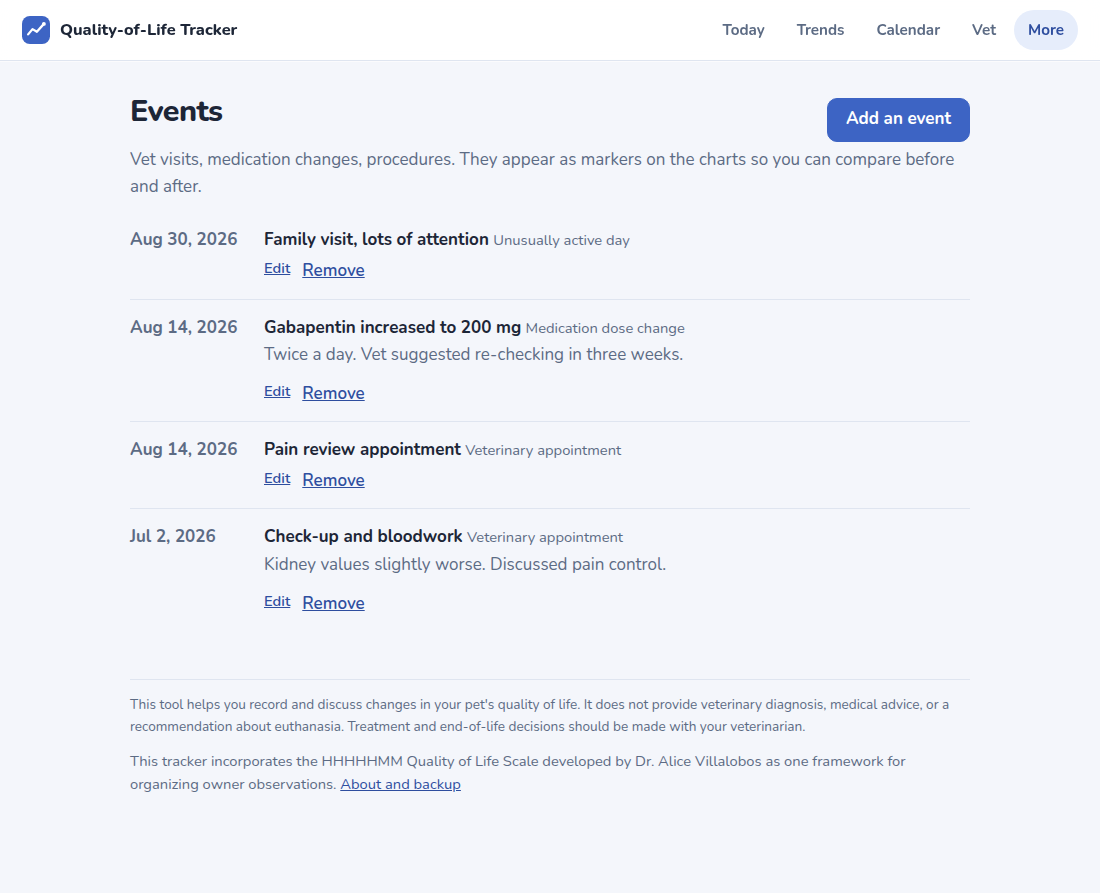
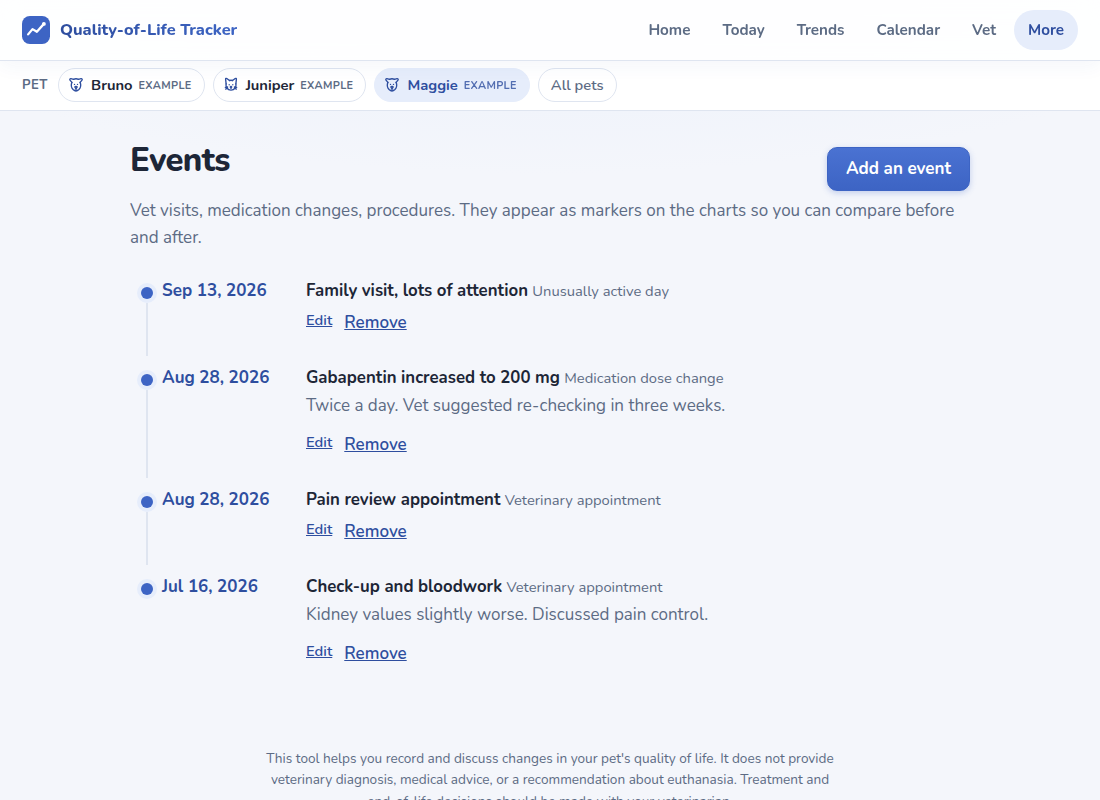
Polish every page
The pet header on Today is a soft gradient card with a ringed portrait;
section headings carry a small icon tile; count tiles have icon
circles; behaviour bars a gradient; observations an i / ! / check mark;
the calendar has rounded cells with gaps; the vet table zebra rows and
red or green verdicts; the events page a dotted timeline; the More page
tappable rows; pet cards lift on hover; the home page step cards are
tinted to match their icons; the footer is centred. The question tile
class is renamed q-tile so the no-gamification-words test stays green.
README screenshots refreshed.

Claude-Session: https://claude.ai/code/session_01WD81nzJdcR2tiUwVwuFBaZ

diff --git a/app/static/style.css b/app/static/style.css
@@ -419,21 +419,21 @@ body { background: radial-gradient(1200px 420px at 50% -120px, #e6edfb 0%, var(-
 .q-head .question, .q-head label.question { margin: 0; }
 .q-head > div { min-width: 0; }
 .q-head .tag { margin-bottom: 4px; }
-.q-badge { flex: none; display: inline-flex; align-items: center; justify-content: center; width: 52px; height: 52px; border-radius: 16px; background: var(--accent-soft); color: var(--accent-dark); box-shadow: inset 0 0 0 1px rgba(255,255,255,.6); }
-.q-badge .icon { width: 28px; height: 28px; stroke-width: 1.7; }
-.q-badge.small { width: 30px; height: 30px; border-radius: 9px; margin-right: 8px; vertical-align: middle; }
-.q-badge.small .icon { width: 17px; height: 17px; stroke-width: 1.9; }
+.q-tile { flex: none; display: inline-flex; align-items: center; justify-content: center; width: 52px; height: 52px; border-radius: 16px; background: var(--accent-soft); color: var(--accent-dark); box-shadow: inset 0 0 0 1px rgba(255,255,255,.6); }
+.q-tile .icon { width: 28px; height: 28px; stroke-width: 1.7; }
+.q-tile.small { width: 30px; height: 30px; border-radius: 9px; margin-right: 8px; vertical-align: middle; }
+.q-tile.small .icon { width: 17px; height: 17px; stroke-width: 1.9; }
 h1.with-badge { display: flex; align-items: center; gap: 12px; }
-.q-badge.cat-hurt { background: var(--cat-hurt-soft); color: var(--cat-hurt); }
-.q-badge.cat-hunger { background: var(--cat-hunger-soft); color: var(--cat-hunger); }
-.q-badge.cat-hydration { background: var(--cat-hydration-soft); color: var(--cat-hydration); }
-.q-badge.cat-hygiene { background: var(--cat-hygiene-soft); color: var(--cat-hygiene); }
-.q-badge.cat-happiness { background: var(--cat-happiness-soft); color: var(--cat-happiness); }
-.q-badge.cat-mobility { background: var(--cat-mobility-soft); color: var(--cat-mobility); }
-.q-badge.cat-good_days { background: var(--cat-good_days-soft); color: var(--cat-good_days); }
-.q-badge.cat-day { background: var(--cat-day-soft); color: var(--cat-day); }
-.q-badge.cat-markers { background: var(--cat-markers-soft); color: var(--cat-markers); }
-.q-badge.cat-note { background: var(--cat-note-soft); color: var(--cat-note); }
+.q-tile.cat-hurt { background: var(--cat-hurt-soft); color: var(--cat-hurt); }
+.q-tile.cat-hunger { background: var(--cat-hunger-soft); color: var(--cat-hunger); }
+.q-tile.cat-hydration { background: var(--cat-hydration-soft); color: var(--cat-hydration); }
+.q-tile.cat-hygiene { background: var(--cat-hygiene-soft); color: var(--cat-hygiene); }
+.q-tile.cat-happiness { background: var(--cat-happiness-soft); color: var(--cat-happiness); }
+.q-tile.cat-mobility { background: var(--cat-mobility-soft); color: var(--cat-mobility); }
+.q-tile.cat-good_days { background: var(--cat-good_days-soft); color: var(--cat-good_days); }
+.q-tile.cat-day { background: var(--cat-day-soft); color: var(--cat-day); }
+.q-tile.cat-markers { background: var(--cat-markers-soft); color: var(--cat-markers); }
+.q-tile.cat-note { background: var(--cat-note-soft); color: var(--cat-note); }
 .tag.cat-hurt { background: var(--cat-hurt-soft); color: var(--cat-hurt); }
 .tag.cat-hunger { background: var(--cat-hunger-soft); color: var(--cat-hunger); }
 .tag.cat-hydration { background: var(--cat-hydration-soft); color: var(--cat-hydration); }
@@ -461,7 +461,106 @@ input[type="range"]::-moz-range-thumb { width: 30px; height: 30px; border-width:
 .slider output { font-size: 1.45rem; min-width: 2.8em; padding: 8px 10px; border-radius: 12px; }
 
 @media (max-width: 700px) {
-  .q-badge { width: 44px; height: 44px; border-radius: 13px; }
-  .q-badge .icon { width: 24px; height: 24px; }
+  .q-tile { width: 44px; height: 44px; border-radius: 13px; }
+  .q-tile .icon { width: 24px; height: 24px; }
   .day-icon { width: 40px; height: 40px; padding: 8px; }
+}
+
+/* ---- Pretty pass: hero card, section icons, calendar, tables, timeline ---- */
+.topbar { box-shadow: 0 1px 0 var(--border), 0 6px 18px rgba(46, 78, 159, .05); border-bottom: none; }
+.brand span { background: linear-gradient(90deg, var(--accent-dark), var(--accent)); -webkit-background-clip: text; background-clip: text; color: transparent; }
+h1 { font-size: 2.05rem; }
+.content { padding-top: 30px; }
+
+/* Section headings with a small icon tile */
+.h-icon { width: 30px; height: 30px; padding: 6px; border-radius: 9px; background: var(--accent-soft); color: var(--accent-dark); margin-right: 10px; vertical-align: -9px; stroke-width: 1.9; }
+.card.block h2 { display: flex; align-items: center; }
+.section-head .actions { margin: 0; }
+
+/* Pet hero on Today */
+.hero-card { position: relative; overflow: hidden; padding: 22px 26px; border-radius: 20px; background: linear-gradient(135deg, #e9effc 0%, #f7f9fe 55%, #ffffff 100%); border: 1px solid #e1e8f6; box-shadow: var(--shadow); margin-bottom: 20px; }
+.hero-card::before, .hero-card::after { content: ""; position: absolute; border-radius: 50%; pointer-events: none; }
+.hero-card::before { width: 260px; height: 260px; right: -70px; top: -120px; background: radial-gradient(circle, rgba(61,100,196,.14), transparent 70%); }
+.hero-card::after { width: 160px; height: 160px; right: 140px; bottom: -110px; background: radial-gradient(circle, rgba(201, 138, 14, .12), transparent 70%); }
+.hero-card .hero-photo img, .hero-card .hero-photo .placeholder { box-shadow: 0 0 0 4px #fff, 0 8px 22px rgba(46, 78, 159, .18); }
+.hero-card .chip.quiet { background: rgba(255,255,255,.75); border: 1px solid #e1e8f6; color: var(--muted); }
+.today-card { border-left: 5px solid var(--accent); }
+
+/* Count tiles */
+.count { border-radius: 14px; border-left-width: 5px; padding: 16px 16px 14px; box-shadow: inset 0 0 0 1px rgba(255,255,255,.7); }
+.count .icon { width: 30px; height: 30px; padding: 6px; border-radius: 50%; background: rgba(255,255,255,.75); margin-bottom: 6px; opacity: 1; }
+.count.none { background: linear-gradient(180deg, #f0f3fa, #e9eef7); border-color: #c5cfe3; }
+
+/* Behaviour bars and insights */
+.bar { height: 12px; background: #e9eef7; }
+.bar span { background: linear-gradient(90deg, var(--accent-dark), #6f90de); }
+.marker-head .small { font-weight: 700; color: var(--accent-dark); }
+.insight { align-items: flex-start; border-left-width: 4px; padding: 12px 14px 12px 12px; border-radius: 12px; }
+.insight-mark { display: inline-flex; align-items: center; justify-content: center; flex: none; width: 22px; height: 22px; border-radius: 50%; margin-top: 2px; font-size: 0.75rem; font-weight: 900; background: #fff; color: var(--faint); box-shadow: inset 0 0 0 2px var(--faint); }
+.insight.attention .insight-mark { color: var(--warn); box-shadow: inset 0 0 0 2px var(--warn); }
+.insight.note .insight-mark { color: #fff; background: var(--accent); box-shadow: none; }
+
+/* Recent entries and events as rows */
+.entry-list li, .event-list li { padding: 10px 6px; border-radius: 10px; }
+.entry-list li:hover, .event-list li:hover { background: var(--surface-2); }
+.event-list .date { color: var(--accent-dark); background: var(--accent-soft); border-radius: 8px; padding: 2px 8px; min-width: 0; font-size: 0.85rem; }
+
+/* Calendar: rounded cells with breathing room */
+.calendar { border-collapse: separate; border-spacing: 5px; }
+.cal-cell { border-radius: 12px; border: 1px solid #e7ecf5; height: 60px; background: #fbfcfe; transition: transform .12s, box-shadow .12s; }
+.cal-cell.out { background: transparent; border-color: transparent; }
+.cal-cell.good { background: var(--good-soft); border-color: #cfe7da; } .cal-cell.mixed { background: var(--mixed-soft); border-color: #ecdfae; } .cal-cell.bad { background: var(--bad-soft); border-color: #efcbd4; }
+.cal-cell.logged { background: var(--surface-2); }
+.cal-cell:has(a):hover { transform: translateY(-1px); box-shadow: 0 6px 14px rgba(46, 78, 159, .12); }
+.cal-cell .glyph { width: 16px; height: 16px; }
+.calendar th { padding: 6px 0 2px; }
+
+/* Tables */
+.table tbody tr:nth-child(even) td { background: #f9fbfe; }
+.table tbody tr:hover td { background: var(--accent-soft); }
+.table td:first-child { font-weight: 700; }
+.verdict { font-weight: 700; white-space: nowrap; }
+.verdict.down { color: var(--bad); } .verdict.up { color: var(--good); } .verdict.muted { font-weight: 500; }
+
+/* Events timeline */
+.timeline { position: relative; padding-left: 4px; }
+.timeline li { border-top: none; position: relative; padding: 14px 0 14px 28px; grid-template-columns: 130px 1fr; }
+.timeline li::before { content: ""; position: absolute; left: 7px; top: 24px; width: 12px; height: 12px; border-radius: 50%; background: var(--accent); box-shadow: 0 0 0 4px var(--accent-soft); }
+.timeline li::after { content: ""; position: absolute; left: 12px; top: 40px; bottom: -6px; width: 2px; background: var(--border); }
+.timeline li:last-child::after { display: none; }
+.timeline .date { color: var(--accent-dark); }
+.timeline li strong { font-size: 1.05rem; }
+
+/* Link lists (More, settings) as tappable rows */
+.link-list li { padding: 11px 8px; border-radius: 10px; border-top: none; margin-top: 2px; }
+.link-list li:hover { background: var(--surface-2); }
+.link-list .icon { width: 30px; height: 30px; padding: 6px; border-radius: 9px; background: var(--accent-soft); color: var(--accent-dark); margin-right: 6px; vertical-align: middle; }
+.link-list a { font-weight: 700; text-decoration: none; }
+.link-list a:hover { text-decoration: underline; }
+
+/* Pet cards */
+.animal-card { transition: transform .12s, box-shadow .15s; }
+.animal-card:hover { transform: translateY(-2px); box-shadow: 0 12px 30px rgba(46, 78, 159, .12); }
+.animal-card .thumb, .animal-card .placeholder { box-shadow: 0 0 0 3px #fff, 0 0 0 4px #dbe4f6; }
+
+/* Home page step cards */
+.step-card .q-tile { margin-bottom: 12px; }
+.step-card:nth-child(1) { background: linear-gradient(180deg, #fff, #f5fbf8); }
+.step-card:nth-child(2) { background: linear-gradient(180deg, #fff, #f3f6fd); }
+.step-card:nth-child(3) { background: linear-gradient(180deg, #fff, #f6f3fd); }
+.hero-landing { padding-top: 36px; }
+
+/* Chips */
+.chip.active { background: linear-gradient(180deg, #4a72d2, var(--accent)); box-shadow: 0 2px 6px rgba(61, 100, 196, .25); }
+
+/* Footer */
+.footer { text-align: center; }
+.disclaimer { border-top: none; padding-top: 18px; max-width: 70ch; margin: 0 auto 10px; }
+
+@media (max-width: 700px) {
+  h1 { font-size: 1.6rem; }
+  .hero-card { padding: 18px; border-radius: 16px; }
+  .timeline li { grid-template-columns: 1fr; padding-left: 26px; }
+  .calendar { border-spacing: 3px; }
+  .cal-cell { height: 52px; border-radius: 9px; }
 }

diff --git a/app/templates/dashboard.html b/app/templates/dashboard.html
@@ -2,7 +2,7 @@
 {% from "_icons.html" import icon %}
 {% block title %}{{ animal.name }} · Today{% endblock %}
 {% block content %}
-<section class="hero">
+<section class="hero hero-card">
   <div class="hero-photo">
     {% if animal.photo_path %}
       <img src="{{ url_for('animals.serve_photo', filename=animal.photo_path) }}" alt="">
@@ -66,7 +66,7 @@
 
 <section class="card block" aria-label="Last 30 days">
   <div class="section-head tight">
-    <h2>Last 30 days</h2>
+    <h2>{{ icon('calendar', 'icon h-icon') }}Last 30 days</h2>
     <a class="link small" href="{{ url_for('trends.calendar', animal_id=animal.id) }}">Calendar</a>
   </div>
   <div class="day-counts">
@@ -82,7 +82,7 @@
 
 <section class="card block" aria-label="Trend">
   <div class="section-head tight">
-    <h2>Quality-of-life trend</h2>
+    <h2>{{ icon('trend', 'icon h-icon') }}Quality-of-life trend</h2>
     <div class="presets small">
       {% for key, label in [('30', '30 days'), ('90', '90 days'), ('all', 'All')] %}
         <a class="chip {{ 'active' if preset == key }}" href="{{ url_for('dashboard.today', animal_id=animal.id, range=key) }}">{{ label }}</a>
@@ -102,7 +102,7 @@
 {% if rates %}
 <section class="card block" aria-label="Good-day behaviors">
   <div class="section-head tight">
-    <h2>{{ animal.name }}'s good-day behaviors</h2>
+    <h2>{{ icon('check-circle', 'icon h-icon') }}{{ animal.name }}'s good-day behaviors</h2>
     <a class="link small" href="{{ url_for('markers.behaviors', animal_id=animal.id) }}">Over time</a>
   </div>
   <ul class="marker-list">
@@ -118,13 +118,13 @@
 {% endif %}
 
 <section class="card block" aria-label="Observations">
-  <h2>Observations</h2>
+  <h2>{{ icon('sparkles', 'icon h-icon') }}Observations</h2>
   {% include "_insights.html" %}
 </section>
 
 {% if caregiver_due %}
 <section class="card block caregiver-card" aria-label="Caregiver check-in">
-  <h2>How are you doing?</h2>
+  <h2>{{ icon('heart', 'icon h-icon') }}How are you doing?</h2>
   <p class="muted">This one is for you, and it's kept separate from {{ animal.name }}'s scores. Once a week, if you'd like.</p>
   <a class="button secondary" href="{{ url_for('caregiver.checkin', animal_id=animal.id) }}">Answer</a>
 </section>
@@ -132,7 +132,7 @@
 
 <section class="card block" aria-label="Recent">
   <div class="section-head tight">
-    <h2>Recent</h2>
+    <h2>{{ icon('flag', 'icon h-icon') }}Recent</h2>
     <div class="actions compact">
       <a class="link small" href="{{ url_for('events.new', animal_id=animal.id) }}">Add an event</a>
       <a class="link small" href="{{ url_for('trends.trends', animal_id=animal.id) }}#entries">All entries</a>

diff --git a/app/templates/checkin.html b/app/templates/checkin.html
@@ -23,7 +23,7 @@
   {# Step 1: good / bad / mixed #}
   <div class="card panel step" data-step="status" data-title="Today">
     <fieldset>
-      <legend class="q-head"><span class="q-badge cat-day">{{ icon('calendar', 'icon') }}</span><span class="question">Was today a good day or a bad day for {{ animal.name }}?</span></legend>
+      <legend class="q-head"><span class="q-tile cat-day">{{ icon('calendar', 'icon') }}</span><span class="question">Was today a good day or a bad day for {{ animal.name }}?</span></legend>
       <div class="day-choice">
         {% for value, label in day_statuses %}
           <label class="day-option {{ value }}">
@@ -41,7 +41,7 @@
   <div class="card panel step" data-step="markers" data-title="Behaviors">
     <input type="hidden" name="markers_included" value="1">
     <fieldset>
-      <legend class="q-head"><span class="q-badge cat-markers">{{ icon('checklist', 'icon') }}</span><span class="question">What did {{ animal.name }} do today?</span></legend>
+      <legend class="q-head"><span class="q-tile cat-markers">{{ icon('checklist', 'icon') }}</span><span class="question">What did {{ animal.name }} do today?</span></legend>
       {% if markers %}
         <div class="choice-grid">
           {% for m in markers %}
@@ -67,7 +67,7 @@
       <div class="card panel step score-step" data-step="{{ key }}" data-title="{{ label }}">
         <div class="score-row">
           <div class="q-head">
-            <span class="q-badge cat-{{ key }}">{{ icon(category_icons[key], 'icon') }}</span>
+            <span class="q-tile cat-{{ key }}">{{ icon(category_icons[key], 'icon') }}</span>
             <div><span class="tag cat-{{ key }}">{{ label }}</span>
             <label class="question" for="score-{{ key }}">{{ questions[key].replace('{name}', animal.name) }}</label></div>
           </div>
@@ -87,7 +87,7 @@
 
   {# Step 10: anything different? #}
   <div class="card panel step" data-step="note" data-title="Anything different?">
-    <div class="q-head"><span class="q-badge cat-note">{{ icon('pencil', 'icon') }}</span><label for="notes" class="question">Anything different today?</label></div>
+    <div class="q-head"><span class="q-tile cat-note">{{ icon('pencil', 'icon') }}</span><label for="notes" class="question">Anything different today?</label></div>
     <textarea id="notes" name="notes" rows="3" maxlength="5000" placeholder="Medication change, vet visit, didn't finish breakfast, slept more than usual…">{{ values.get('notes', '') }}</textarea>
     <p class="hint">Optional.</p>
     <details class="extras">

diff --git a/app/templates/checkin_quick.html b/app/templates/checkin_quick.html
@@ -9,7 +9,7 @@
   <input type="hidden" name="markers_included" value="1">
   <div class="card panel">
     <fieldset>
-      <legend class="q-head"><span class="q-badge cat-day">{{ icon('calendar', 'icon') }}</span><span class="question">Was today a good day or a bad day for {{ animal.name }}?</span></legend>
+      <legend class="q-head"><span class="q-tile cat-day">{{ icon('calendar', 'icon') }}</span><span class="question">Was today a good day or a bad day for {{ animal.name }}?</span></legend>
       <div class="day-choice">
         {% for value, label in day_statuses %}
           <label class="day-option {{ value }}">
@@ -24,7 +24,7 @@
   {% if markers %}
   <div class="card panel">
     <fieldset>
-      <legend class="q-head"><span class="q-badge cat-markers">{{ icon('checklist', 'icon') }}</span><span class="question">What did {{ animal.name }} do today?</span></legend>
+      <legend class="q-head"><span class="q-tile cat-markers">{{ icon('checklist', 'icon') }}</span><span class="question">What did {{ animal.name }} do today?</span></legend>
       <div class="choice-grid">
         {% for m in markers %}
           <label class="choice big">

diff --git a/app/templates/landing.html b/app/templates/landing.html
@@ -43,17 +43,17 @@
 
 <section class="steps-landing" id="how" aria-label="How it works">
   <div class="card block step-card">
-    {{ icon('check-circle', 'icon step-icon') }}
+    <span class="q-tile cat-markers">{{ icon('check-circle', 'icon') }}</span>
     <h2>Check in</h2>
     <p>Record a good or bad day, the behaviors that matter for your pet, and optional quality-of-life scores. Under thirty seconds.</p>
   </div>
   <div class="card block step-card">
-    {{ icon('trend', 'icon step-icon') }}
+    <span class="q-tile cat-day">{{ icon('trend', 'icon') }}</span>
     <h2>See the trend</h2>
     <p>Understand how comfort, mobility, appetite, happiness, and good days are changing over weeks, not just how today felt.</p>
   </div>
   <div class="card block step-card">
-    {{ icon('stethoscope', 'icon step-icon') }}
+    <span class="q-tile cat-mobility">{{ icon('stethoscope', 'icon') }}</span>
     <h2>Talk with your vet</h2>
     <p>Create a simple one-page summary for veterinary appointments, with the charts and the changes worth discussing.</p>
   </div>

diff --git a/app/templates/trends.html b/app/templates/trends.html
@@ -48,7 +48,7 @@
       {% set s = series.categories[loop.index0] %}
       <a class="multiple card-link" href="{{ url_for('trends.category', animal_id=animal.id, key=c.key, range=preset) }}">
         <div class="multiple-head">
-          <h3><span class="q-badge small cat-{{ c.key }}">{{ icon(category_icons[c.key], 'icon') }}</span>{{ c.label }}</h3>
+          <h3><span class="q-tile small cat-{{ c.key }}">{{ icon(category_icons[c.key], 'icon') }}</span>{{ c.label }}</h3>
           {% if c.comparison.usable and c.comparison.delta is not none %}
             <span class="delta {{ 'down' if c.comparison.delta <= -0.5 else 'up' if c.comparison.delta >= 0.5 else '' }}">{{ '%.1f'|format(c.comparison.recent_mean) }} <span class="muted small">vs {{ '%.1f'|format(c.comparison.previous_mean) }}</span></span>
           {% elif c.latest is not none %}

diff --git a/app/templates/category.html b/app/templates/category.html
@@ -4,7 +4,7 @@
 {% block content %}
 <p class="eyebrow"><a href="{{ url_for('trends.trends', animal_id=animal.id, range=preset) }}">Trends</a> / {{ label }}</p>
 <div class="section-head">
-  <h1 class="with-badge"><span class="q-badge cat-{{ key }}">{{ icon(category_icons[key], 'icon') }}</span>{{ label }}</h1>
+  <h1 class="with-badge"><span class="q-tile cat-{{ key }}">{{ icon(category_icons[key], 'icon') }}</span>{{ label }}</h1>
   <div class="presets">
     {% for rk, plabel in [('30', '30 days'), ('90', '90 days'), ('all', 'All time')] %}
       <a class="chip {{ 'active' if preset == rk }}" href="{{ url_for('trends.category', animal_id=animal.id, key=key, range=rk) }}">{{ plabel }}</a>

diff --git a/app/templates/vet.html b/app/templates/vet.html
@@ -19,7 +19,7 @@
           <td>{{ c.label }}</td>
           <td>{% if c.previous is not none %}{{ '%.1f'|format(c.previous) }} <span class="muted small">({{ c.previous_n }})</span>{% else %}<span class="muted">—</span>{% endif %}</td>
           <td>{% if c.recent is not none %}{{ '%.1f'|format(c.recent) }} <span class="muted small">({{ c.recent_n }})</span>{% else %}<span class="muted">—</span>{% endif %}</td>
-          <td class="muted small">{{ c.text }}</td>
+          <td class="small verdict {{ 'down' if c.text.startswith('Lower') else 'up' if c.text.startswith('Higher') else 'muted' }}">{{ c.text }}</td>
         </tr>
       {% endfor %}
     </tbody>

diff --git a/app/templates/_animal_card.html b/app/templates/_animal_card.html
@@ -17,7 +17,7 @@
   </div>
   <div class="foot">
     <form method="post" action="{{ url_for('animals.select_animal', animal_id=animal.id) }}">
-      <button class="button small secondary" type="submit">{{ 'View' if animal.archived else 'Open' }}</button>
+      <button class="button small {{ 'secondary' if animal.archived }}" type="submit">{{ 'View' if animal.archived else 'Open' }}</button>
     </form>
   </div>
 </article>

diff --git a/app/templates/_insights.html b/app/templates/_insights.html
@@ -4,7 +4,7 @@
   <ul class="insight-list">
     {% for i in observations %}
       <li class="insight {{ i.level }} {{ i.kind }}">
-        <span class="insight-mark" aria-hidden="true"></span>
+        <span class="insight-mark" aria-hidden="true">{{ '!' if i.level == 'attention' else '✓' if i.kind == 'note' else 'i' }}</span>
         <span>{{ i.text }}</span>
       </li>
     {% endfor %}

diff --git a/docs/BUILD-LOG.md b/docs/BUILD-LOG.md
@@ -278,6 +278,17 @@ editing couldn't blank a weight; fixed with an explicit sentinel.
   wash at the top. The same badges appear on the Trends category grid and
   each category page, so the colours mean the same thing everywhere. All
   icons are hand-drawn inline SVG, so the app stays offline and small.
+- "Can you make the site prettier?" A second pass over every page: the
+  pet's header on Today is a soft gradient card with a ringed portrait,
+  each section heading has a small icon tile, the count tiles got icon
+  circles, behaviour bars a gradient, observations an i/!/check mark, the
+  calendar rounded cells with gaps, the vet table zebra rows with red
+  and green verdicts, the events page a dotted timeline, the More page
+  tappable rows, pet cards that lift on hover, and the home page step
+  cards tinted to match their icons. One test caught a word: the CSS class
+  "q-badge" tripped the rule that no page may contain gamification words
+  like "badge" or "streak", so it became "q-tile". The rule is doing its
+  job even on things that are not copy.
 
 ---
 
